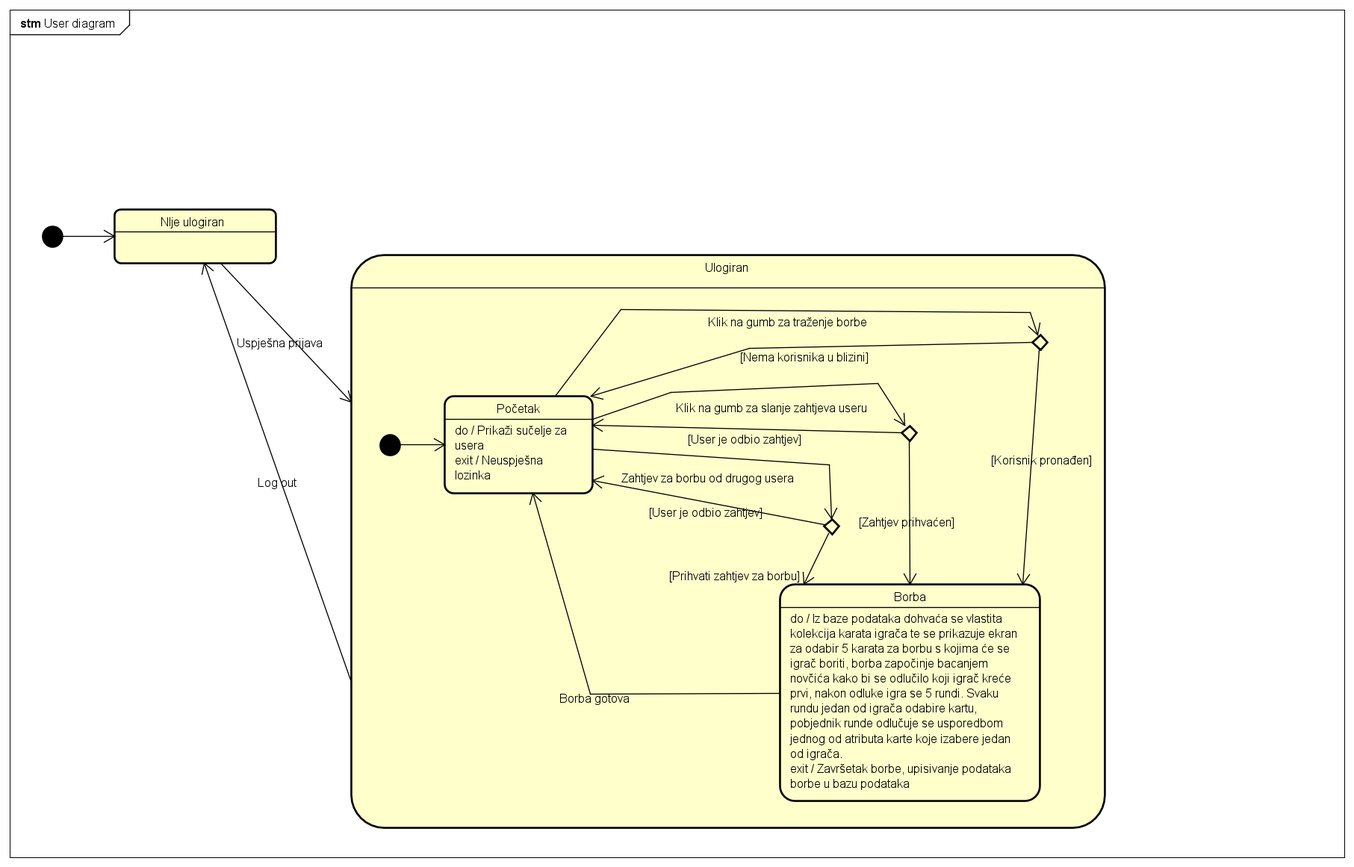
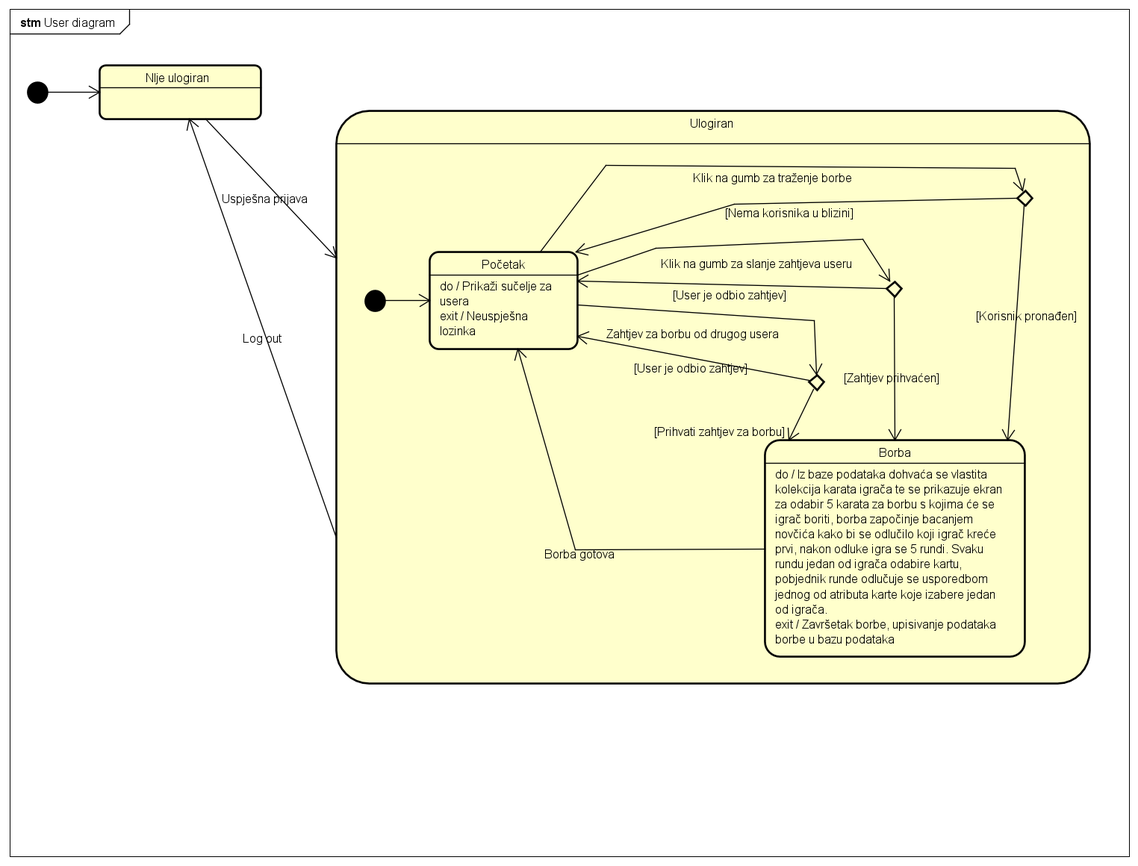
Ispravljene gramatičke pogreške i prepravljen prvi dio dokumentacije

diff --git a/dokumentacija/Opis_projektnog_zadatka.tex b/dokumentacija/Opis_projektnog_zadatka.tex
@@ -1,7 +1,7 @@
 \chapter{Opis projektnog zadatka}
 		
 		
-		\textnormal{Cilj projekta grupe PI je razviti programsku podršku za stvaranje web aplikacije "GeoFighter".  GeoFighter je igra u kojoj se igrači međusobno bore kartama koje su sakupili na različitim stvarnim lokacijama. Cilj igrača je postići što veći rang na globalnoj ljestvici dok je njihov zadatak obići što više  gradova, naselja, planina, umjetničkih instalacija, znamenitosti i slično te sakupiti iste. Lokacije su u obliku igraćih karata. Svaka karta ima naziv,  opis, fotografiju i oznaku 3 atributa. Igrači s 10 ili više pobjeda imaju opciju prijaviti željenu lokaciju pored koje se nalaze. U prijavi lokacije igrači su dužni navesti ime lokacije, opis i sliku. Rijetkost karte (common, uncommon, rare, epic) određuje kartograf prilikom pregleda prijave karte. Atributi se određuju nasumično obzirom na rijetkost karte.} \\
+		\textnormal{Cilj projekta grupe PI je razviti programsku podršku za stvaranje web aplikacije "GeoFighter".  GeoFighter je igra u kojoj se igrači međusobno bore kartama koje su sakupili na različitim stvarnim lokacijama. Cilj igrača je postići što veći rang na globalnoj ljestvici, što se može postići obilaskom što više  gradova, naselja, planina, umjetničkih instalacija, znamenitosti i slično te sakupljanjem kartica lokacije iste. Lokacije su u obliku igraćih karata. Svaka karta ima naziv,  opis, fotografiju i oznaku 3 atributa. Igrači također mogu prijaviti željenu lokaciju pored koje se nalaze ukoliko imaju barem 5 pobijeda. U prijavi lokacije igrači su dužni navesti ime lokacije, opis, sliku te vrijednosti 3 atributa karte.} \\
 		
 		 \textnormal{\underline{Kartograf} je osoba koja je zadužena za nadopunjavanje baze podataka s lokacijama koje su igrači prijavili. On ih može odbiti, potvrditi, urediti ili označiti da je potrebna potvrda s terena. Ukoliko kartograf prihvati lokaciju bez izmjena, igrač koji je lokaciju  prijavio dobiva tu kartu.}\\
 		
@@ -34,14 +34,14 @@
 		\end{figure}
 		
 		
-		\textnormal{Igračima je dostupan pregled profila igrača, globalna statistika odigranih borbi i sakupljenih lokacija te poredak svih igrača prema elo sustavu. Prilikom pregleda profila nekog igrača, prikazuju se sve karte koje je igrač ikad sakupio, rang na globalnoj ljestvici i statistike vezane uz zadnjih 10 borbi s drugim igračima. Istražujući svoju okolinu igrači sakupljaju lokacije tako da im dođu na dovoljnu udaljenost (~1km). Lokacije se sakupljaju u obliku igraćih karata koje igrači koriste za međusobne bitke. Pritiskom na gumb za traženje borbe, igrač se nasumično sparuje s drugim igračem koji je također tražio borbu, igračima se otvara prozor za odabir karata za borbu iz kolekcije te nakon odabira borba kreće. Nakon 10 osvojenih borbi igraču se otvara opcija da sam pridonosi bazi podataka GeoFighter-a tako da prijavljuje lokacije sa slikom, nazivom i opisom te lokacije.}\\
+		\textnormal{Igračima je dostupan pregled profila ostalih igrača, pregled vlastitog profila, pregled svih karata lokacija, poredak svih igrača prema elo sustavu, pregled igrača u blizini te mogućnosti započinjanja borbe ili prijave nove karte lokacije. Prilikom pregleda profila nekog igrača, prikazuju se sve karte koje je igrač ikad sakupio, rang na globalnoj ljestvici i statistike vezane uz zadnjih 10 borbi s drugim igračima. Istražujući svoju okolinu igrači sakupljaju lokacije tako da im dođu na dovoljnu udaljenost (3km). Lokacije se sakupljaju u obliku igraćih karata koje igrači koriste za međusobne bitke. Pritiskom na gumb za traženje borbe, igrač može poslati zahtjev za igru nekome od igrača koji su u blizini, ili prihvatiti zahtjev koji je dobio od nekog drugog igrača. Kada se dvoje igrača spare u borbu, otvaraju im se prozori za odabir karata za borbu iz vlastite kolekcije te nakon odabira borba kreće.}\\
 		
-		\textnormal{Borba se sastoji od 5 rundi. Svaka karta ima 3 atributa u vrijednosti 0-100 (0-najslabije, 100-najjače). Prije početka borbe igrači imaju izbor odabrati 5 karata za borbu sa ograničenjima: maksimalan broj karti rariteta "common" neograničeno, "uncommon" 2, "rare" 1 i "epic" 1. Borba započinje bacanjem novčića koji odlučuje koji će igrač imati prvi potez. Igrač koji je pobijedio bacanje novčića započinje bitku bacanjem karte i odabirom jednog od tri atributa s karte. Protivnik baca svoju kartu te pobjeđuje karta koja ima jači zadani atribut. U sljedećim rundama igrači se izmjenjuju u započinjanju runde odnosno koji prvi baca kartu. Rating se dodjeljuje prema ELO rating sistemu koji se koristi i u šahu.}
-		\textnormal{Nakon borbe, korištene karte dobivaju cooldown, odnosno ne mogu se koristiti 72 sata nakon borbe kako bi se igrače potaknulo na aktivan život i istraživanje kako bi imali veću kolekciju te uvijek bili spremni za borbu.}\\
+		\textnormal{Borba se odvija matematičkim izračunom s obzirom na jačine odabranih karata. Svaka karta ima 3 atributa u vrijednosti 0-10 (0-najslabije, 10-najjače). Prije početka borbe igrači moraju odabrati 3 karte za borbu iz vlastite kolekcije. Nakon obavljenog izračuna s obzirom na jačine izabranih karata dobiva se povratna informacija o ishodu borbe. Na kraju se za svakog igrača dodjeljuje rating prema ELO rating sistemu koji se koristi i u šahu.}
+		\textnormal{Nakon borbe, korištene karte dobivaju cooldown, odnosno ne mogu se koristiti slijedećih sat vremena nakon borbe, te se svakim novim korištenjem taj cooldown produljuje za još sat vremena, kako bi se igrače potaknulo na aktivan život i istraživanje te kako bi imali veću kolekciju i uvijek bili spremni za borbu.}\\
 		
-		\textnormal{Sučelje kartografa razlikuje se od sučelja igrača. Kartografu se prijave pokazuju na karti te ukoliko nije zadovoljan prijavom i/ili želi provjeriti danu lokaciju, sustav preko vanjskog servisa OSRM(Open source routing machine) dohvati rješenje problema trgovačkog putnika i kartografu put prikaže na karti. Nakon analize prijave, kartograf odlučuje hoće li prijavu odbiti nepovratno, prihvatiti prijavu bez dorada, prepraviti prijavu nakon provjere na terenu (promjena slike ili opisa) ili će označiti prijavu kao nepotpunu te uz komentar "vratiti" prijavu igraču na doradu. Ukoliko je kartograf prihvatio prijavu bez dorada, igraču se dodjeljuje igraća karta te lokacije.}\\
+		\textnormal{Sučelje kartografa razlikuje se od sučelja igrača. Kartografu se prijave pokazuju na karti te ukoliko nije zadovoljan prijavom i/ili želi provjeriti danu lokaciju, sustav preko vanjskog servisa OSRM (Open source routing machine) dohvati rješenje problema trgovačkog putnika i kartografu put prikaže na karti. Nakon analize prijave, kartograf odlučuje hoće li prijavu odbiti ili prihvatiti. Također može prepraviti prijavu nakon provjere na terenu (promjena slike ili opisa) ili nakon uređivanja dodijeljenih vrijednosti atributa te ju zatim prihvatiti. Ukoliko je kartograf prihvatio prijavu, igraču se dodjeljuje igraća karta te lokacije.}\\
 		
-		\textnormal{Sučelje administratora sastoji se od sučelja igrača, kartografa te sučelja administratora. Prebacivanjem (toggle button) sučelja administrator bira želi li igrati kao igrač, raditi kao kartograf ili želi obavljati posao administratora. Administrator može pritiskom na gumb vidjeti popis svih registriranih igrača i kartografa, vidjeti i mijenjati njihove osobne podatke. On jedini može brisati i uređivati postojeće lokacije tj. igraće karte.}\\
+		\textnormal{Sučelje administratora sastoji se od svih funkcionalnosti sučelja igrača, kartografa te sučelja administratora. Administrator može pritiskom na gumb vidjeti popis svih registriranih igrača i kartografa, vidjeti i mijenjati njihove osobne podatke ili onemogućiti pristup nekome od korisnika. On jedini može brisati i uređivati postojeće lokacije tj. igraće karte.}\\
 		
 		
 		\textnormal{Ovaj projekt potencijalno bi mogao koristiti korisnicima različitih generacija i interesa. Osim što će mlađe generacije izaći van na svjež zrak, baviti se tjelesnom aktivnošću i pritom igrati omiljenu im igricu, zajedno s prijateljima otkrivat će znamenitosti i ljepote Hrvatske te ponešto o svakoj naučiti.}
@@ -50,9 +50,9 @@
 		
 		\textnormal{Također, aplikacija se ne mora nužno koristiti za borbu među igračima. Za avanturiste koje ne zanima borba i igranje igrice, aplikacija bi mogla služiti kao evidencija mjesta koja su posjetili. Dodavši neke prilagodbe kao mogućnost kontaktiranja i razmjenjivanja poruka među igračima, aplikacija  bi poprimila ugođaj društvene mreže na kojoj bi se ljudi mogli povezati s drugim avanturistima sličnih interesa. Razmjenjivanjem iskustava i preporuka, stvorila bi se mreža avanturista koji jedni drugima preporučaju zanimljive lokacije i postižu zadane si ciljeve.}
 		
-		\textnormal{Još jedna moguća  prilagodba aplikacije je za korištenje u edukativne svrhe. Prilikom namjernog ili nenamjernog posjeta nekoj obilježenoj lokaciji, osoba bi primila obavijest s informacijama o mjestu koje je posjetila, zajedno sa slikama i linkovima za više informacija. Iste informacije mogla bi naknadno pogledati na svom korisničkom računu, na sučelju s posjećenim mjestima.}\\
+		\textnormal{Još jedna moguća  prilagodba aplikacije je za korištenje u edukativne svrhe. Prilikom namjernog ili nenamjernog posjeta nekoj obilježenoj lokaciji, osoba bi primila obavijest s informacijama o mjestu koje je posjetila, zajedno sa slikama i poveznicama za više informacija. Iste informacije mogla bi naknadno pogledati na svom korisničkom računu, na sučelju s posjećenim mjestima.}\\
 		
-		\textnormal{Ovisno o uspješnosti projektnog zadatka i dodatnim zahtjevima korisnika moguća je nadogradnja izrada iOS i Android aplikacija kako bi se poboljšale performanse na mobilnim uređajima. Također, integracije s najpopularnijim društvenim mrežama bi se ugradile kako bi igrači mogli podijeliti svoje uspjehe s prijateljima. Uvođenjem sustava achievementa(dostignuća) mogli bi se dodatno nagrađivati igrači. Mogli bi vidjeti koje achievemente još nisu osvojili i koji su koraci sve potrebni da ih osvoje. Korištenjem API-ova možemo nadopuniti listu lokacija, te ubrzati postupak njihovog dodavanja. Za vrijeme posebnih događaja kao što su Nova godina, Božić i slično mogli bi dodati posebne karte koje se samo tada, u kratkom roku, mogu skupiti. Uvođenje posebnih lokacija za koje je potrebno više ljudi da se osvoje je također moguća nadogradnja. Najveća potencijalna nadogradnja je uvođenje AR (Augmented reality) sposobnosti kako bi igrači mogli oko sebe pomoću ugrađene kamere na mobilnom uređaju lakše pronaći sve moguće lokacije u svojoj blizini.}\\
+		\textnormal{Ovisno o uspješnosti projektnog zadatka i dodatnim zahtjevima korisnika moguća je izrada iOS i Android aplikacija kako bi se poboljšale performanse na mobilnim uređajima. Također, integracijom s najpopularnijim društvenim mrežama bi se omogućilo igračima da podijele svoje uspjehe s prijateljima. Uvođenjem sustava achievementa (dostignuća) mogli bi se dodatno nagrađivati igrači. Mogli bi vidjeti koje achievemente još nisu osvojili i koji su koraci sve potrebni da ih osvoje. Korištenjem API-ova možemo nadopuniti listu lokacija, te ubrzati postupak njihovog dodavanja. Za vrijeme posebnih događaja kao što su Nova godina, Božić i slično mogli bi dodati posebne karte koje se samo tada, u kratkom roku, mogu sakupiti. Uvođenje posebnih lokacija za koje je potrebno više ljudi da se osvoje je također moguća nadogradnja. Najveća potencijalna nadogradnja je uvođenje AR (Augmented reality) sposobnosti kako bi igrači mogli oko sebe pomoću ugrađene kamere na mobilnom uređaju lakše pronaći sve moguće lokacije u svojoj blizini.}\\
 		
 		
 		\textnormal{Najpoznatije postojeće slično rješenje je igra za ručne mobilne uređaje \textbf{Pokémon GO}. Pomoću GPS lokacije igrača oni se smještaju na virtualnu mapu koja emulira stvarni svijet, uz dodane lokacije gdje je moguća borba i sakupljanje Pokémona koji služe za borbu. Borbe se odvijaju pomoću jačine Pokémona, kao što će to biti slučaj s kartama u ovome projektu. Razlike u odnosu na ovaj projekt su to što je u igrici Pokémon GO omogućen prikaz mape po kojoj se igrač kreće analogno svom kretanju u stvarnosti. Također, za održavanje borbi u našem projektu će biti samo važni igrači koji su udaljeni 50 km od korisnika kako bi se pronašao suigrač, ali ne i sama lokacija korisnika kao što je to u Pokémon GO.    }

diff --git a/dokumentacija/Implementacija.tex b/dokumentacija/Implementacija.tex
@@ -105,10 +105,10 @@
 		\section{Ispitivanje programskog rješenja}
 						
 			\subsection{Ispitivanje komponenti}
-			\textit{Za potrebe testiranja naših Spring backend komponenti koristili smo JUnit testing framework. JUnit nam omogućuje pisanje testova koji se jako brzo izvode pomoću njegovog Mockito frameworka tako da nije potrebno pokrenuti cijelu Spring aplikaciju već možemo falsificirati odgovore nekih metoda koje bi inače razgovarale s bazom. Uz te testove (8-10) napisali smo i integracijske testove (1-6) u kojima koristimo MockMvc kojim simuliramo HTTP zahtjeve na našu backend poslužitelj i na temelju dobivenih HTTP odgovora ispitivamo njihovu ispravnost. Ti testovi zahtijevaju potpuno pokretanje Spring aplikacije te su nešto sporiji. Također napisali smo nekoliko standardnih testova koji ispituju statičke metode. Napisan je i jedan test koji poziva ne-implementiranu funkcionalnost dok ona baca UnsupportedOeprationException, ali on nije prikazan u primjerima ispod i u programskom je kodu anotacijom onemogućen. Takav test faila pri pokretanju. Od svih testova implementiranih funkcionalnosti prolaze svi i to je vidljivo na slici koja se nalazi na dnu poglavlja.}
+			\textnormal{Za potrebe testiranja naših Spring backend komponenti koristili smo JUnit testing framework. JUnit nam omogućuje pisanje testova koji se jako brzo izvode pomoću njegovog Mockito frameworka tako da nije potrebno pokrenuti cijelu Spring aplikaciju već možemo falsificirati odgovore nekih metoda koje bi inače razgovarale s bazom. Uz te testove (8-10) napisali smo i integracijske testove (1-6) u kojima koristimo MockMvc kojim simuliramo HTTP zahtjeve na naš backend poslužitelj i na temelju dobivenih HTTP odgovora ispitujemo njihovu ispravnost. Ti testovi zahtijevaju potpuno pokretanje Spring aplikacije te su nešto sporiji. Također napisali smo nekoliko standardnih testova koji ispituju statičke metode. Napisan je i jedan test koji poziva ne-implementiranu funkcionalnost dok ona baca UnsupportedOeprationException, ali on nije prikazan u primjerima ispod i u programskom je kodu anotacijom onemogućen. Takav test pada pri pokretanju. Svi testovi implementiranih funkcionalnosti prolaze, što je moguće vidjeti na slici koja se nalazi na dnu poglavlja.}
 			
 			\subsubsection{Test 1: Uspješna registracija u sustav}
-			Korisnik se registrira u sustav e-mail adresom, korisničkim imenom, lozinkom i URL-om svoje slike. \\
+			Korisnik se registrira u sustav e-mail adresom, korisničkim imenom, lozinkom i URL-om svoje slike profila. \\
 			U ovom testu su svi podatci ispravni, pa stoga poslužitelj treba uspješno izvršiti registraciju korisnika i vratiti statusni kod 200 OK.
 			
 			\begin{figure}[H]
@@ -184,7 +184,7 @@
 			\begin{figure}[H]
 				\centering
 				\includegraphics[scale=0.65]{slike/test7} \\
-				\caption{ Test parsiranja i pretvaranje lokaciju u String }
+				\caption{ Test parsiranja i pretvaranja lokacije u String }
 				\label{fig:test7}
 			\end{figure}
 		
@@ -199,7 +199,7 @@
 			\end{figure}
 		
 			\subsubsection{Test 9: Osvajanje karte ne radi ništa ako je igrač već ima}
-			Ispitivanje metode koja se poziva prilikom osvajanja karte i očekivanje da ona neće napraviti nikakvu akciju spremanja u bazu podataka ukoliko igrač koji pokušava osvojiti kartu nju već posjeduje.
+			Ispitivanje metode koja se poziva prilikom osvajanja karte i očekivanje da ona neće napraviti nikakvu akciju spremanja u bazu podataka ukoliko igrač već posjeduje navedenu kartu.
 			
 			\begin{figure}[H]
 				\centering
@@ -219,7 +219,7 @@
 			\end{figure}
 		
 			\subsubsection{Test 11: Test računanja daljine između dvije lokacije}
-			Ispitivanje metode koja računa zračnu udaljenost između svije geografske lokacije.
+			Ispitivanje metode koja računa zračnu udaljenost između dvije geografske lokacije.
 			Lokacija se uspoređuje s poznatom udaljenosti u kilometrima između neke dvije točke.
 			
 			\begin{figure}[H]
@@ -242,7 +242,7 @@
 			
 		    Za potrebe ispitivanja sustava, koristili smo Selenium IDE.
 			\subsubsection{Test 1: Registracija korisnika}
-			\textbf{Očekivano: } Klikom na gumb \textit{Sign Up} učitava se stranica s formom za unos podataka potrebnih za registraciju korisnika: \textit{e-mail adresa, korisničko ime, zaporka} te \textit{poveznica na sliku profila}.\\
+			\textbf{Očekivano: } Klikom na gumb \textit{Sign Up} učitava se stranica s formom za unos podataka potrebnih za registraciju korisnika: \textit{e-mail adresa, korisničko ime, lozinka} te \textit{poveznica na sliku profila}.\\
 			\textbf{Rezultat: } Korisnik  je  uspješno  registriran  u  bazu  podataka  ili  je  sustav  dojavio grešku.\\
 			
 			    Na slici 5.13. prikazana je poruka prilikom neuspješne registracije korisnika u sustav. Na slici 5.14. prikazan je uspješan test registracije u alatu Selenium.
@@ -331,34 +331,34 @@
 		
 		\section{Upute za puštanje u pogon}
 		
-			\textit{Za puštanje u pogon GeoFighter aplikacije iz izvornog kôda potrebno je nekoliko preduvjeta: \textbf{PostgreSQL13, JDK11 i Node.js 15}. Uz sve te aplikacije skinute i instalirane lako je kompajlirati i aplikaciju pokrenuti na vlastitom računalu. Aplikacija je također pokrenuta na javno dostupnom poslužitelju \textbf{Heroku} o čemu piše više u nastavku.\\}
+			\textnormal{Za puštanje u pogon GeoFighter aplikacije iz izvornog kôda potrebno je nekoliko preduvjeta: \textbf{PostgreSQL13, JDK11 i Node.js 15}. Nakon što su navedene aplikacije preuzete i instalirane lako je kompilirati aplikaciju i pokrenuti ju na vlastitom računalu. Aplikacija je također pokrenuta na javno dostupnom poslužitelju \textbf{Heroku} o čemu piše više u nastavku.\\}
 			
 			\textbf{\textit{Koraci za pokretanje na lokalnom računalu:}}
 			
 			\begin{itemize}
 				
-				\item U PostgreSQL DBMSu stvoriti novu bazu podataka te zapisati njeno ime(baze podataka) uz ime korisnika-vlasnika baze podataka, njegove šifre i portu baze.
+				\item U PostgreSQL DBMS-u stvoriti novu bazu podataka te zapisati njeno ime (baze podataka) uz ime korisnika-vlasnika baze podataka, njegovu šifre i vrata (engl. port) baze.
 				
 				\item Unutar root direktorija otvoriti datoteku čiji je path\\ \textit{/izvorniKod/geoFighterSpring/src/main/resources/application-local.properties}\\ i unutar nje promijeniti sljedeće parametre: \begin{packed_enum}
 					
 					\item \textit{spring.datasource} parametre s parametrima novo-kreirane baze podataka. (Voditi brigu o portu, imenu baze podataka, te korisničkom imenu i lozinci vlasnika te baze)
 					
-					\item \textit{spring.mail} parametre s parametrima željenog mail servisa kako bi se mogli slati mailovi potvrde. (mail servis može biti javan kao što je trenutni \textit{gmail}, a moguće je koristiti testni kao što je \textit{mailtrap}\\ \url{https://mailtrap.io})
+					\item \textit{spring.mail} parametre s parametrima željenog mail servisa kako bi se mogli slati mailovi potvrde. Mail servis može biti javan kao što je trenutni \textit{gmail}, a moguće je koristiti testni kao što je \textit{mailtrap}\\ (\url{https://mailtrap.io})
 				\end{packed_enum}
 			
 				\begin{figure}[H]
 					\centering
 					\includegraphics[scale=0.4]{slike/Properties} \\%veličina u odnosu na širinu linije
-					\caption{Što promijeniti u application-local.properties}
+					\caption{Podatci koje je potrebno promijeniti u application-local.properties}
 					\label{fig:properties} %label mora biti drugaciji za svaku sliku
 				\end{figure}
 			
 				
-				\item Otvoriti konzolu i pozicionirati se unutar \textit{/izvorniKod/geoFighterSpring/} i pokrenuti naredbu \textit{"./gradlew bootRun -Dspring.profiles.active=local"} s kojom se izkompajlira i pokrene backend servis.
+				\item Otvoriti konzolu i pozicionirati se unutar \textit{/izvorniKod/geoFighterSpring/} i pokrenuti naredbu \textit{"./gradlew bootRun -Dspring.profiles.active=local"} s kojom se kompilira i zatim pokrene backend servis.
 				
-				\item Otvoriti drugu konzolu i pozicionirati se unutar \textit{/izvorniKod/angular-geofighter/} i pokrenuti naredbu \textit{"npm install"} s kojom se instaliraju sve potrebno za frontend servis. Zatim pokrenuti naredbu \textit{"ng build"}, te na kraju \textit{"npm start"} kojim se pokreće frontend servis na portu 4200.
+				\item Otvoriti drugu konzolu i pozicionirati se unutar \textit{/izvorniKod/angular-geofighter/} i pokrenuti naredbu \textit{"npm install"} kojom se preuzme i instalira sve potrebno za frontend servis. Zatim pokrenuti naredbu \textit{"ng build"}, te na kraju \textit{"npm start"} kojom se pokreće frontend servis na portu 4200.
 				
-				\item Ako su pokrenuti backend i frontend servis i ne javlju se greške u konzoli, aplikacija je spremna za korištenje na lokalnom računalu.\\\\
+				\item Ako su backend i frontend servis pokrenuti i u konzoli nisu dojavljene nikakve pogreške, aplikacija je spremna za korištenje na lokalnom računalu.\\\\
 				
 			\end{itemize}
 		
@@ -366,7 +366,7 @@
 			\textit{Aplikacija je puštena u pogon na javno dostupnom poslužitelju \textbf{Heroku} tako da su sve tri komponente (DB, FrontEnd i BackEnd) tamo pokrenute i moguće joj je pristupiti s linka:}\\
 			\url{https://angularfrontend-release.herokuapp.com/}\\
 						
-			\textit{GitLab repozitorij \url{https://gitlab.com/MatejC_FER/pi} također sadrži CI/CD (Continuous integration and continuous delivery) implementiran pomoću kojeg se pri svakom commitu na \textbf{Master} branch automatski aplikacija izgradila i deployala na \textbf{Heroku} javni poslužitelj. Tako nije potrebno lokalno pokretati aplikaciju nakon izmjena, već je dovoljno na repozitorij pohraniti primjene.}
+			\textit{GitLab repozitorij \url{https://gitlab.com/MatejC_FER/pi} također sadrži implementiran CI/CD (Continuous integration and continuous delivery) pomoću kojeg se pri svakom commitu na \textbf{Master} branch automatski aplikacija izgradila i deployala na \textbf{Heroku} javni poslužitelj. Tako nije potrebno lokalno pokretati aplikaciju nakon izmjena, već je dovoljno na repozitorij pohraniti promjene.}
 			
 			
 			\eject 

diff --git a/dokumentacija/Specifikacija_programske_potpore.tex b/dokumentacija/Specifikacija_programske_potpore.tex
@@ -36,7 +36,7 @@
 				
 				\begin{packed_enum}
 					
-					\item se prijaviti u sustav koristeći email i lozinku
+					\item se prijaviti u sustav koristeći e-mail i lozinku
 					\item se odjaviti iz sustava
 					\item pregledati vlastiti profil
 					\begin{packed_enum}
@@ -50,21 +50,21 @@
 				\end{packed_enum}
 			\item pregledati detalje pojedinačne karte iz kolekcije
 			\item pregledati popis igrača u blizini
-			\item pristupiti borbi kroz nasumičnu tražilicu
+			\item pristupiti borbi slanjem ili prihvaćanjem zahtjeva
 			\item se boriti u kartaškom dvoboju protiv drugog igrača
 			\begin{packed_enum}
 				\item odabrati karte za borbu iz svoje kolekcije sakupljenih karata
 				\item odigrati kartaški dvoboj
 			\end{packed_enum}
 		\item prijaviti novu lokaciju
-		\item dobiti novu kartu ako ju je igrač prijavio te je ona odobrena bez izmjena
+		\item dobiti novu kartu ako ju je igrač prijavio te je ona odobrena
 		\item pristupiti pregledu rang ljestvice svih igrača
 					
 				\end{packed_enum}
 			\item  \underbar{Kartograf (inicijator) može:}
 			
 			\begin{packed_enum}
-				\item se prijaviti u sustav preko broja osobne iskaznice
+				\item se prijaviti u sustav koristeći e-mail i lozinku
 				\item se odjaviti iz sustava
 				\item pristupiti prikazu svih prijava:
 				\begin{packed_enum}
@@ -159,7 +159,7 @@
 						\item[2.a] Odbijenica od strane administratora
 						\item[] \begin{packed_enum}
 							
-							\item Pokusati se prijaviti drugi put
+							\item Pokušati se prijaviti ponovno
 							
 						\end{packed_enum}
 						
@@ -176,7 +176,7 @@
 					
 					\item[] \begin{packed_enum}
 						
-						\item Unos emaila i lozinke.
+						\item Unos e-maila i lozinke.
 						\item Potvrda o ispravnosti unesenih podataka.
 						\item Pristup korisničkim funkcijama.
 					\end{packed_enum}
@@ -185,7 +185,7 @@
 					
 					\item[] \begin{packed_item}
 						
-						\item[2.a] Neispravan email ili lozinka
+						\item[2.a] Neispravan e-mail ili lozinka
 						\item[] \begin{packed_enum}
 							
 							\item  Sustav obavještava korisnika o neuspješnoj prijavi. Korisnik pokušava ponovno.
@@ -257,7 +257,7 @@
 					\item[] \begin{packed_enum}
 						
 						\item Korisnik odabire igrača s popisa čiji profil želi otvoriti.
-						\item Prikazuju se detalji drugog igrača: ime, rang, statistika zadnjih 10 borbi te gumb za kolekciju.
+						\item Prikazuju se detalji drugog igrača: ime, rang, statistika zadnjih 10 borbi te sakupljene karte.
 					\end{packed_enum}
 				\end{packed_item}
 				
@@ -306,12 +306,9 @@
 					\item[] \begin{packed_enum}
 						
 						\item Korisnik odabire opciju za pronalazak suparnika, sustav uparuje.
-						\item Baca se novčić kako bi se odredilo koji će igrač imati prvi potez, igrači su naizmjence na potezu
-						\item Igrač koji je prvi na potezu u rundi, odabire jednu od svojih karata te atribut, nakon odabira "baca" kartu na igraču ploču
-						\item Igrač koji je drugi na potezu, primoran je "poštovati" atribut, tj. na svim njegovim kartama pojačano je označen (highlightan) atribut kojeg je izabrao prvi igrač. Igrač odabire kartu dok je atribut izabran sam. (atribut kojeg je u prvom potezu izabrao drugi igrač)
-						\item Kada su obje karte bačene ona s jačim atributom pobjeđuje rundu, te je grafički naznačeno koji igrač je pobjedio rundu
-						\item Obje karte nakon određivanja pobjednika runde idu u "smeće" te se ne mogu koristiti opet do kraja borbe
-						\item Borba traje sve dok se sve kartice ne potroše(5).
+						\item Igrači izabiru po 3 karte iz vlastite kolekcije.
+						\item Borba se izvršava kroz matematički izračun s obzirom na jačine odabranih karata.
+						\item Oba igrača dobivaju obavijest o ishodu borbe.
 					\end{packed_enum}
 					
 					\item  \textbf{Opis mogućih odstupanja:}
@@ -327,13 +324,13 @@
 						\item[2.a] Igrač nema dovoljno karata za borbu
 						\item[] \begin{packed_enum}
 							
-							\item  Prilikom pritiska na gumb "Traži borbu" sustav igraču javlja kako nema dovoljno karata za početak borbe (ili ih nema dovoljno ili su na cooldownu pa nisu trenutno dostupne). Sustav mu predlaže da pođe u istraživanje kako bi sakupio više karata i uvijek bio spreman na borbu.
+							\item  Prilikom pritiska na gumb "Traži borbu" igrač se ne može pridružiti borbi jer nema dovoljno karata za početak borbe (ili ih nema dovoljno ili su na cooldownu pa nisu trenutno dostupne). Sustav mu predlaže da pođe u istraživanje kako bi sakupio više karata i uvijek bio spreman na borbu.
 							
 						\end{packed_enum}
 					\item[5.a] Atributi karti su jednaki
 					\item[] \begin{packed_enum}
 						
-						\item  Ako su atributi karata jednaki gledaju se druga dva atributa zbrojena te karta koja ima veći zbroj druga dva tributa pobjeđuje. Ukoliko se desi rijedak slučaj da su sva tri atributa ista oba igrača dobivaju bod za rundu, tj. runda je neriješena
+						\item  Ako su atributi karata jednaki rezultat borbe je neriješeno.
 						
 					\end{packed_enum}
 						
@@ -352,7 +349,7 @@
 					\item[] \begin{packed_enum}
 						
 						\item Aplikacija prikazuje sve sakupljene karte korisnika koje su dostupne za borbu.
-						\item Korisnik odabire 5 karata za borbu. 
+						\item Korisnik odabire 3 karte za borbu. 
 						\item Korisnik potvrđuje odabir karata
 					\end{packed_enum}
 					
@@ -370,10 +367,9 @@
 					
 					\item[] \begin{packed_enum}
 						
-						\item Aplikacija prikaže poruku koja sadrži statistiku odigranih rundi te pobjednika
+						\item Aplikacija prikaže poruku koja sadrži informaciju o ishodu borbe.
 						\item Statistika oba suigrača se osvježi u bazi podataka.
 						\item Kartama koje su korištene dodjeljuje se cooldown.
-						\item Sustav vraća korisnika na početnu stranicu.
 					\end{packed_enum}
 				\end{packed_item}
 				
@@ -418,12 +414,12 @@
 					
 					\item[] \begin{packed_enum}
 						
-						\item Korisnikova prijava je prihvaćena bez potrebnih daljnjih izmjena.
+						\item Korisnikova prijava je prihvaćena.
 						\item Korisnik dobiva obavijest da mu je dodijeljena nova karta.
-						\item Nova karta(lokacija) se dodaje u kolekciju korisnika.
+						\item Nova karta (lokacija) se dodaje u kolekciju korisnika.
 					\end{packed_enum}
 				\end{packed_item}
-				
+				\newpage
 				\noindent \underbar{\textbf{UC10 - Pregled rang ljestvice}}
 				\begin{packed_item}
 					
@@ -826,7 +822,7 @@
 						
 						\item Kartograf klikom na opciju za pregled prijava lokacija šalje upit bazi podataka.
 						\item Prijavljene lokacije se kartografu prikažu na karti.
-						\item Kartograf klikom na lokaciju otvara prozor s opisom lokacije.
+						\item Kartograf klikom na gumb za uređivanje otvara prozor s podatcima lokacije.
 						\item Kartograf uređuje podatke o prijavi lokacije i odabire opciju za spremanje.
 						\item Prijava lokacije se ažurira u bazi podataka.
 						\item Aplikacija ažurira podatke o prijavi lokacije.
@@ -940,7 +936,7 @@
 			\subsection{Sekvencijski dijagrami}
 				
 				\subsubsection{Obrazac uporabe UC8 - Borba}
-				\textnormal{Igrač šalje zahtjev za borbom. Web aplikacija potom dohvaća suparnika. Borba započinje bacanjem novčića kako bi se odlučilo kreće li igrač prvi. Nakon odluke, igra se 5 rundi. Igrač koji započinje potez u rundi bira kartu i jedan od tri atributa za tu rundu te baca kartu na igraču ploču. Igrač koji kreće drugi izabire samo kartu, a atribut se poštuje te je isti kao od igrača koji je započeo rundu. Nakon što se obje karte nalaze na igračem polju dolazi do odluke koji igrač je pobijedio rundu. Gleda se koja od dvije karte ima veći odabrani atribut. Ukoliko su odabrani atributi jednaki gleda se zbroj drugih dvaju atributa. Karta s većim atributom pobjeđuje rundu. Ukoliko dođe do rijetkog slučaja da su sva tri atributa jednaka dolazi do neriješene runde. Poslije 5 odigranih rundi proglašuje se pobjednik i u bazu podataka se spremaju podaci te borbe.}\\
+				\textnormal{Igrač šalje zahtjev za borbom ili privaća dobiveni zahtjev. Web aplikacija potom dohvaća suparnika. Igrači izabiru po 3 karte s kojima će sudjelovati u borbi. Borba se odvija matematičkim izračunom s obzirom na jačinu atributa odabranih karata. Proglašava se pobjednik i u bazu podataka se spremaju podaci te borbe.}\\
 				\begin{figure}[H]
 					\centering
 					\includegraphics[scale=0.52]{dijagrami/UC8 - Borba} \\

diff --git a/dokumentacija/Zakljucak.tex b/dokumentacija/Zakljucak.tex
@@ -1,11 +1,11 @@
 \chapter{Zaključak i budući rad}
 		
-		\textnormal{Zadatak našeg projekta bio je razviti web aplikaciju "Geofighter", interaktivnu igru u kojoj korisnici fizički posjećuju lokacije u Hrvatskoj. Igrači dolaze do znamenitosti, ustanova, penju se do planinarskih domova ili istražuju Nacionalne parkove te na svakom cilju imaju priliku skupiti kartu lokacije. Svaka karta lokacije ima 3 atributa koji određuju njenu vrijednost i upravo ti atributi služe kao materijal za borbu među igračima. Igrači iz svoje zbirke karata lokacija odabiru 3 karte, povežu se s igračem po želji blizu njih i kreću u borbu. Igrač također može unijeti novu lokaciju koja, ako je odobrena od strane kartografa, postaje pristupna svim igračima. Korisnik može imati i ulogu kartografa ili administratora koji imaju dodatne ovlasti.}\\
+		\textnormal{Zadatak našeg projekta bio je razviti web aplikaciju "Geofighter", interaktivnu igru u kojoj korisnici fizički posjećuju lokacije u Hrvatskoj. Igrači dolaze do znamenitosti, ustanova, penju se do planinarskih domova ili istražuju Nacionalne parkove te na svakom cilju imaju priliku sakupiti kartu lokacije. Svaka karta lokacije ima 3 atributa koji određuju njenu vrijednost i upravo ti atributi služe kao materijal za borbu među igračima. Igrači iz svoje zbirke karata lokacija odabiru 3 karte, povežu se s igračem po želji blizu njih i kreću u borbu. Igrač također može unijeti novu lokaciju koja, ako je odobrena od strane kartografa, postaje pristupna svim igračima. Korisnik može imati i ulogu kartografa ili administratora koji imaju dodatne ovlasti.}\\
 		 
-		 \textnormal{Prva faza projekta bila je detaljno opisati projektni zadatak na čemu je grupa složno radila kako bi svi dijelovi zadatka bili razrađeni i svi članovi grupe detaljno upućeni u posao koji će se obavljati. Nakon razrađenog opisa, također složno napisali smo funkcionalne i ostale zahtjeve po kojima smo se kasnije orijentirali u raspoređivanju posla te opis arhitekture. Grupa se upoznala međusobno, komunikaciju smo odlučili izvesti preko platforme Slack gdje je voditelj grupe otvorio kanale za razne dijelove projekta te nam je tamo slao sve obavijesti. Sastanke smo odlučili obavljati online na tjednoj bazi preko platforme Zoom i Teams, a po potrebi imali smo i koji izvanredni sastanak. Svi smo se upoznali s Git-om(i GitLab-om) te Latex-om(i TeXstudio-m). Pred kraj prve faze počeli smo se upoznavati s tehnologijama Java Spring za backend i Angular za frontend te izradili kostur aplikacije. Upoznavanje s tehnologijama oduzelo nam je puno vremena i istraživanja materijala na internetu s obzirom na to da se prije s njima nismo susreli. U zadnja dva tjedna prve faze završili smo početni(ne tako mali) dio backenda te login i signup funkcionalnosti skupa s nekim osnovnim komponentama frontenda.}\\
+		 \textnormal{Prva faza projekta bila je detaljno opisati projektni zadatak na čemu je grupa složno radila kako bi svi dijelovi zadatka bili razrađeni i svi članovi grupe detaljno upućeni u posao koji će se obavljati. Nakon razrađenog opisa, također složno napisali smo funkcionalne i ostale zahtjeve po kojima smo se kasnije orijentirali u raspoređivanju posla te pri oblikovanju i opisu arhitekture. Grupa se upoznala međusobno, a komunikaciju smo odlučili izvesti preko platforme Slack gdje je voditelj grupe otvorio kanale za razne dijelove projekta te nam je tamo slao sve obavijesti. Sastanke smo odlučili obavljati online na tjednoj bazi preko platforme Zoom i Teams, a po potrebi imali smo i koji izvanredni sastanak. Svi smo se upoznali s Git-om (i GitLab-om) te Latex-om (i TeXstudio-m). Pred kraj prve faze počeli smo se upoznavati s tehnologijama Java Spring za backend i Angular za frontend te izradili kostur aplikacije. Upoznavanje s tehnologijama oduzelo nam je puno vremena i istraživanja materijala na internetu s obzirom na to da se prije s njima nismo susreli. U zadnja dva tjedna prve faze završili smo početni (ne tako mali) dio backenda te login i signup funkcionalnosti skupa s nekim osnovnim komponentama frontenda.}\\
 		 
-		 \textnormal{Na početku druge faze uslijedila su 2 tjedna konstantnog programiranja, istraživanja i raznih uspjelih i neuspjelih pokušaja implementacije određenih funkcionalnosti. Grupa se ravnomjerno raspodijelila tako da svaka osoba radi i backend i frontend za njoj dodijeljenu funkcionalnost. Problema je bilo, pogotovo zato što smo se svi prvi puta susreli s ovako velikim projektom koristeći ove(nama nove) tehnologije Java Spring i Angular, ali su svi timskim radom uspješno riješeni. Uz tehničke probleme vezane uz prethodno nepoznavanje tehnologija, važno bi bilo istaknuti da je dokumentacija za leaflet library bila loše napisana za kombinaciju leaflet-routing-machine i typescript(riješeno uz puno debuganja i proučavanja na internetu, Stack Overflow-u). Nakon ta 2 tjedna 90\% funkcionalnosti je završeno isto kako i alfa inačica projekta. Ostatak druge faze projekta proveli smo dovršavajući i popravljajući funkcionalnosti, radeći na samom fizičkom izgledu aplikacije (user-experience) i testirajući određene funkcionalnosti. Riješili smo bugove koji su se pojavili, dovršavali dokumentaciju i pripremali prezentaciju projekta.}\\
+		 \textnormal{Na početku druge faze uslijedila su 2 tjedna neprestanog programiranja, istraživanja i raznih uspjelih i neuspjelih pokušaja implementacije određenih funkcionalnosti. Grupa se ravnomjerno raspodijelila tako da svaka osoba radi i backend i frontend za njoj dodijeljenu funkcionalnost. Problema je bilo, pogotovo zato što smo se svi prvi puta susreli s ovako velikim projektom koristeći ove (nama nove) tehnologije Java Spring i Angular, ali su svi timskim radom uspješno riješeni. Uz tehničke probleme vezane uz prethodno nepoznavanje tehnologija, važno bi bilo istaknuti da je dokumentacija za leaflet library bila loše napisana za kombinaciju leaflet-routing-machine i typescript, što je u konačnici riješeno uz puno ispravljanja pogrešaka i proučavanja izvora na internetu kao što je Stack Overflow. Nakon ta 2 tjedna 90\% funkcionalnosti je završeno, čime je stvorena alfa inačica projekta. Ostatak druge faze projekta proveli smo dovršavajući i popravljajući funkcionalnosti, radeći na samom fizičkom izgledu aplikacije (engl. user-experience) i testirajući određene funkcionalnosti. Riješili smo probleme koji su se pojavili, dovršavali dokumentaciju i pripremali prezentaciju projekta.}\\
 		 
-		 \textnormal{Na kraju projekta, cijeli tim vrlo je zadovoljan završnim proizvodom našeg rada. Svi funkcionalni zahtjevi uspješno su implementirani, a izgledom i načinom na koji aplikacija radi u potpunosti smo zadovoljni. Dakako, ostvarenje projekta bilo bi kvalitetnije i brže da su članovi grupe imali više iskustva s tehnologijama koje smo koristili, ali i iskustva u programskom inženjerstvu. Ovo iskustvo donijelo nam je mnoga nova znanja ne samo u tehnologijama nego i u području timskog rada te općenito rada na projektima ovakve vrste. To znanje zasigurno će nam koristiti u budućnosti i biti oslonac u daljnjem učenju i usavršavanju u radu na projektima u timu.}\\
+		 \textnormal{Na kraju projekta, cijeli tim vrlo je zadovoljan završnim proizvodom našeg rada. Svi funkcionalni zahtjevi uspješno su implementirani, a izgledom i načinom na koji aplikacija radi u potpunosti smo zadovoljni. Dakako, ostvarenje projekta bilo bi kvalitetnije i brže da su članovi grupe imali više iskustva s tehnologijama koje smo koristili, ali i iskustva u programskom inženjerstvu. Ovaj projekt donio nam je mnoga nova znanja ne samo u podučju raznih tehnologija nego i u području timskog rada te općenito rada na projektima ovakve vrste. To znanje zasigurno će nam koristiti u budućnosti i biti oslonac u daljnjem učenju i usavršavanju pri radu na timskim projektima.}\\
 		
 		\eject 

diff --git a/dokumentacija/Arhitektura.tex b/dokumentacija/Arhitektura.tex
@@ -417,11 +417,11 @@
 		\section{Dijagram stanja}
 			
 			
-			\textnormal{Na slici 4.12 nalazi se dijagram stanja za registriranog igrača, nakon prijave se prikazuje početna stranica na kojoj igrač može poslati zahtjev drugom igraču za borbu, prihvatiti zahtjev od drugog igrača također postoji opcija za traženje borbe među najbližim igračima.  }
+			\textnormal{Na slici 4.12 nalazi se dijagram stanja za registriranog igrača. Nakon prijave i ulaska u komponentu "Battle" prikazuje se početna stranica na kojoj igrač može poslati zahtjev drugom igraču za borbu ili prihvatiti zahtjev od drugog igrača. Prikazuju se samo igrači u blizini.  }
 			
 						\begin{figure}[H]
 				\centering
-				\includegraphics[scale=0.40]{dijagrami/user_diagram} \\
+				\includegraphics[scale=0.58]{dijagrami/user_diagram} \\
 				\caption{Dijagram stanja - User}
 				\label{fig:user}
 			\end{figure}
@@ -443,7 +443,7 @@
 			\eject
 		\section{Dijagram komponenti}
 		
-			\textbf{\textnormal{Dijagram komponenti prikazuje zavisnost komponenti i opisuje interne strukture i odnose prema okolini. Graf komponenti povezan je vezama ovisnosti kako bi se omogućila lakša analiza reakcije ostalih komponenti na promjene u jednoj komponenti. Do podataka iz baze podataka dolazi se korištenjem JPA APIja. Podaci koji dolaze iz baze podataka stavljaju se u DTO objekte. API šalje podatke iz backend-a aplikacije u obliku JSON-a frontend aplikaciji. Frontend aplikacija se sastoji od Typescript datoteka koje su raspoređene u logičke cjeline nazvane po tipovima aktora koji im pristupaju. Typescript datoteke ovise o Angular biblioteci iz koje dohvaćaju gotove komponente kao što su gumbi, forme i slično. Router je komponenta koja određuje koje datoteke se prikazuju korisniku. Sustavu se pristupa preko sučelja preko kojega mu se salju HTML i Typescript datoteke iz frontend aplikacije.}}\\
+			\textbf{\textnormal{Dijagram komponenti prikazuje zavisnost komponenti i opisuje interne strukture i odnose prema okolini. Graf komponenti povezan je vezama ovisnosti kako bi se omogućila lakša analiza reakcije ostalih komponenti na promjene u jednoj komponenti. Do podataka iz baze podataka dolazi se korištenjem JPA API-ja. Podaci koji dolaze iz baze podataka stavljaju se u DTO objekte. API šalje podatke iz backend-a aplikacije u obliku JSON-a frontend aplikaciji. Frontend aplikacija se sastoji od Typescript datoteka koje su raspoređene u logičke cjeline nazvane po tipovima aktora koji im pristupaju. Typescript datoteke ovise o Angular biblioteci iz koje dohvaćaju gotove komponente kao što su gumbi, forme i slično. Router je komponenta koja određuje koje datoteke se prikazuju korisniku. Sustavu se pristupa preko sučelja preko kojega mu se šalju HTML i Typescript datoteke iz frontend aplikacije.}}\\
 			
 			\begin{figure}[H]
 				\centering

diff --git a/dokumentacija/Dnevnik_promjena_dokumentacije.tex b/dokumentacija/Dnevnik_promjena_dokumentacije.tex
@@ -18,13 +18,13 @@
 			0.3 & Napisan opis projekta & Vrhovec & 13.10.2020. 		\\[3pt] \hline 
 			0.3.1 & Napisana potencijalna korist & Hrastnik & 17.10.2020. 		\\[3pt] \hline
 			0.3.2 & Napisana postojeća slična rješenja & Markovinović & 17.10.2020. 		\\[3pt] \hline
-			0.3.3 & Napisan mogućnost prilagodbe rješenja & Papak & 17.10.2020. 		\\[3pt] \hline
-			0.3.4 & Napisan Opseg projektnog zadatka & Knežević & 17.10.2020. 		\\[3pt] \hline
+			0.3.3 & Napisane mogućnosti prilagodbe rješenja & Papak & 17.10.2020. 		\\[3pt] \hline
+			0.3.4 & Napisan opseg projektnog zadatka & Knežević & 17.10.2020. 		\\[3pt] \hline
 			0.3.5 & Napisane moguće nadogradnje & Čubek & 17.10.2020. 		\\[3pt] \hline
 			0.4 & Spojena poglavlja 2. cjeline & Čubek & 18.10.2020. 		\\[3pt] \hline
 			0.4.1 & Spell check 2. cjeline & Hrastnik & 18.10.2020. 		\\[3pt] \hline
 			0.4.2 & Dorada 2. cjeline & Vrhovec & 23.10.2020. 		\\[3pt] \hline
-			0.5 & 3.cjelina, funkc. zahtjevi, obrasci uporabe & Vrhovec & 23.10.2020. 		\\[3pt] \hline
+			0.5 & Napisana 3. cjelina, funkcionalni zahtjevi, obrasci uporabe & Vrhovec & 23.10.2020. 		\\[3pt] \hline
 			0.5.1 & Dijagram obrazaca uporabe & Knežević & 25.10.2020. 		\\[3pt] \hline
 			0.5.2 & Dijagram obrazaca uporabe & Štracak & 25.10.2020. 		\\[3pt] \hline
 			0.5.2 & Sekvencijski dijagram & Štracak & 31.10.2020. 		\\[3pt] \hline

diff --git a/dokumentacija/Dodatak.tex b/dokumentacija/Dodatak.tex
@@ -286,7 +286,7 @@
 		
 		\begin{figure}[H]
 			\centering
-			\includegraphics[scale=0.55]{slike/aktivnost} \\
+			\includegraphics[scale=0.53]{slike/aktivnost} \\
 			\caption{Dijagram promjena}
 			\label{fig:dijagramPromjena}
 		\end{figure}
